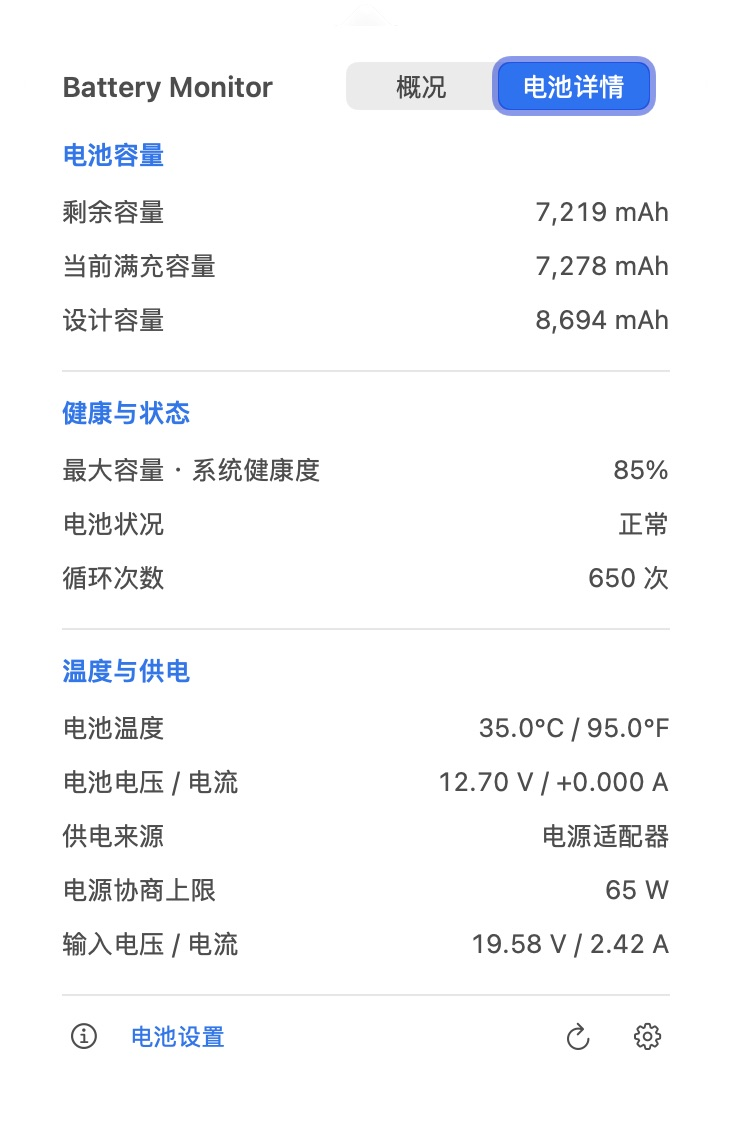
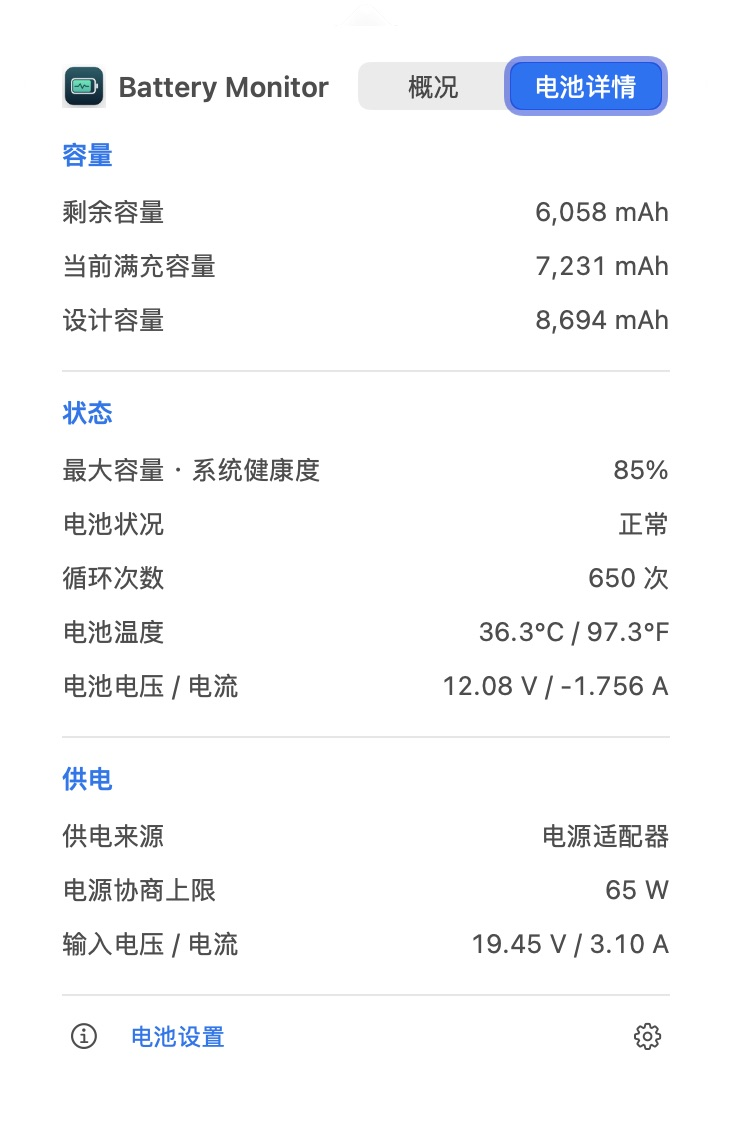
Refresh Chinese and English product screenshots
Use current native Store captures with the Battery Monitor title and app icon, match each power example to its screenshot, and describe battery-only details correctly.

diff --git a/en/index.html b/en/index.html
@@ -19,7 +19,7 @@
       content="Read battery level, power input, system usage, battery health, cycles, and temperature in the Mac menu bar."
     />
     <meta property="og:url" content="https://battery-monitor.zpj.io/en/" />
-    <meta property="og:image" content="https://battery-monitor.zpj.io/assets/overview.jpg" />
+    <meta property="og:image" content="https://battery-monitor.zpj.io/assets/overview-en.jpg" />
     <link rel="icon" href="../assets/app-icon.png" />
     <link rel="stylesheet" href="../site.css" />
   </head>
@@ -53,14 +53,14 @@
           <img class="wallpaper" src="../assets/coast.webp" alt="" width="1000" height="667" />
           <div class="menu-strip" aria-hidden="true">
             <div class="menu-left"><b>Finder</b><span>File</span><span>Edit</span><span>View</span></div>
-            <div class="menu-right"><span class="battery">99</span><span>09:41</span></div>
+            <div class="menu-right"><span class="battery">83</span><span>09:41</span></div>
           </div>
           <div class="preview-panel">
             <img
-              src="../assets/overview.jpg"
+              src="../assets/overview-en.jpg"
               width="732"
               height="532"
-              alt="Overview screenshot in Simplified Chinese. Charge is 99.3%, input is 52.7 W and the Mac uses 52.9 W, so the battery is discharging."
+              alt="Updated Overview screenshot showing the Battery Monitor title and app icon, battery level, input power, power use, and net power."
             />
           </div>
           <figcaption>Mac App Store edition · Overview screenshot</figcaption>
@@ -80,19 +80,19 @@
             <dl>
               <div>
                 <dt>Power input</dt>
-                <dd>52.7<small>W</small></dd>
+                <dd>53.7<small>W</small></dd>
               </div>
               <div>
                 <dt>System usage</dt>
-                <dd>52.9<small>W</small></dd>
+                <dd>62.1<small>W</small></dd>
               </div>
               <div class="net">
                 <dt>Net power</dt>
-                <dd>−0.2<small>W</small></dd>
+                <dd>−8.4<small>W</small></dd>
               </div>
             </dl>
             <figcaption>
-              In the screenshot, 52.7 − 52.9 = −0.2 W. The battery is slowly discharging.
+              In the screenshot, 53.7 − 62.1 = −8.4 W. The battery supplies the difference.
             </figcaption>
           </figure>
         </div>
@@ -101,10 +101,10 @@
         <figure class="detail-screen">
           <img
             loading="lazy"
-            src="../assets/battery-details.jpg"
+            src="../assets/battery-details-en.jpg"
             width="732"
             height="1122"
-            alt="Battery Details screenshot in Simplified Chinese showing capacity, health, cycle count, temperature, and power source."
+            alt="Battery Details screenshot in English showing capacity, health, cycle count, temperature, and power source."
           />
         </figure>
         <div>
@@ -130,8 +130,8 @@
             </div>
           </dl>
           <p class="section-intro">
-            Readings vary by Mac and macOS version. An ≈ marks an estimate. A dash means the reading is
-            unavailable.
+            Readings vary by Mac and macOS version. A dash means the reading is unavailable.
+            The Power section is hidden while running on battery.
           </p>
         </div>
       </section>

diff --git a/index.html b/index.html
@@ -19,7 +19,7 @@
       content="在 Mac 菜单栏查看电量与功率，了解充放电、电池健康度、循环次数和温度。"
     />
     <meta property="og:url" content="https://battery-monitor.zpj.io/" />
-    <meta property="og:image" content="https://battery-monitor.zpj.io/assets/overview.jpg" />
+    <meta property="og:image" content="https://battery-monitor.zpj.io/assets/overview.jpg?v=20261111" />
     <link rel="icon" href="./assets/app-icon.png" />
     <link rel="stylesheet" href="./site.css" />
   </head>
@@ -50,14 +50,14 @@
           <img class="wallpaper" src="./assets/coast.webp" alt="" width="1000" height="667" />
           <div class="menu-strip" aria-hidden="true">
             <div class="menu-left"><b>Finder</b><span>文件</span><span>编辑</span><span>显示</span></div>
-            <div class="menu-right"><span class="battery">99</span><span>09:41</span></div>
+            <div class="menu-right"><span class="battery">84</span><span>09:41</span></div>
           </div>
           <div class="preview-panel">
             <img
-              src="./assets/overview.jpg"
+              src="./assets/overview.jpg?v=20261111"
               width="732"
               height="532"
-              alt="概况实机截图。电量 99.3%，输入 52.7 W，机器耗电 52.9 W，电池正在放电。"
+              alt="新版概况实机截图，含 Battery Monitor 标题、应用图标、电量及输入、耗电与净功率。"
             />
           </div>
           <figcaption>Mac App Store 版 · 概况实机截图</figcaption>
@@ -76,18 +76,18 @@
             <dl>
               <div>
                 <dt>输入功率</dt>
-                <dd>52.7<small>W</small></dd>
+                <dd>60.3<small>W</small></dd>
               </div>
               <div>
                 <dt>机器耗电</dt>
-                <dd>52.9<small>W</small></dd>
+                <dd>82.5<small>W</small></dd>
               </div>
               <div class="net">
                 <dt>净功率</dt>
-                <dd>−0.2<small>W</small></dd>
+                <dd>−22.2<small>W</small></dd>
               </div>
             </dl>
-            <figcaption>截图中的净功率为 52.7 − 52.9 = −0.2 W，电池此时在缓慢放电。</figcaption>
+            <figcaption>截图中，60.3 − 82.5 = −22.2 W，差额由电池补充。</figcaption>
           </figure>
         </div>
       </section>
@@ -95,7 +95,7 @@
         <figure class="detail-screen">
           <img
             loading="lazy"
-            src="./assets/battery-details.jpg"
+            src="./assets/battery-details.jpg?v=20261111"
             width="732"
             height="1122"
             alt="电池详情实机截图，展示容量、系统健康度、循环次数、温度和供电。"
@@ -118,7 +118,7 @@
               <dd>查看正在使用的电源、协商功率上限，以及可用的电压和电流读数。</dd>
             </div>
           </dl>
-          <p class="section-intro">读数取决于机型和系统。≈ 表示估算值，— 表示该项数据暂不可用。</p>
+          <p class="section-intro">读数取决于机型和系统，— 表示该项数据暂不可用。仅电池供电时，供电区块会自动收起。</p>
         </div>
       </section>
       <section class="privacy-band">
